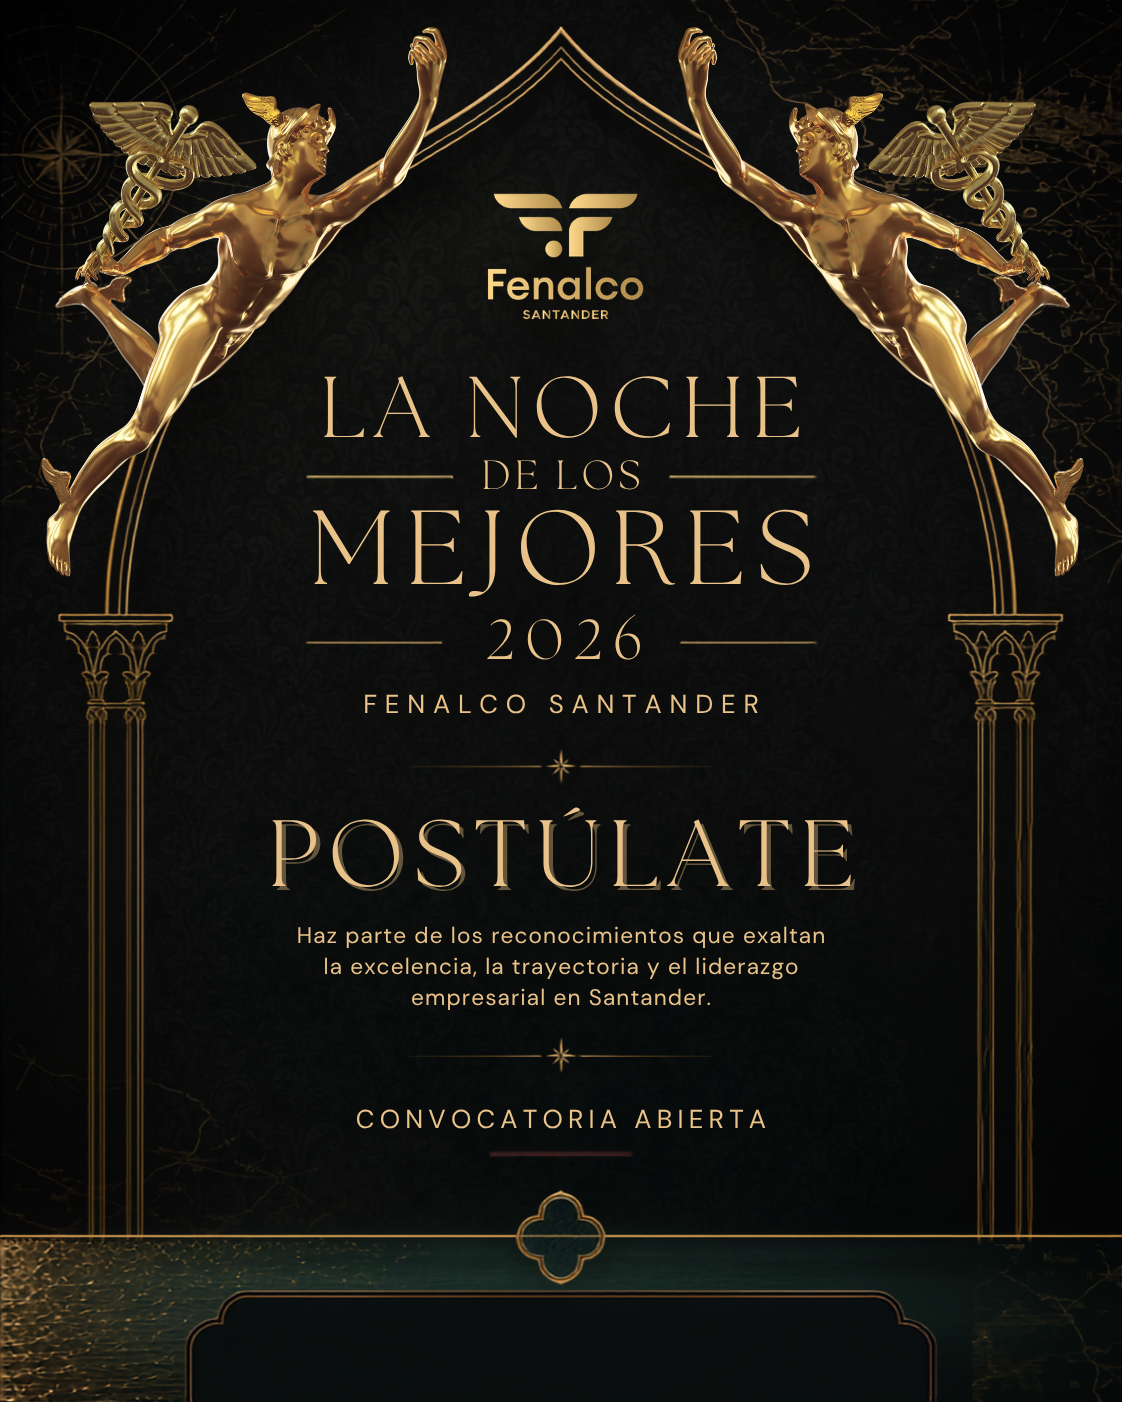
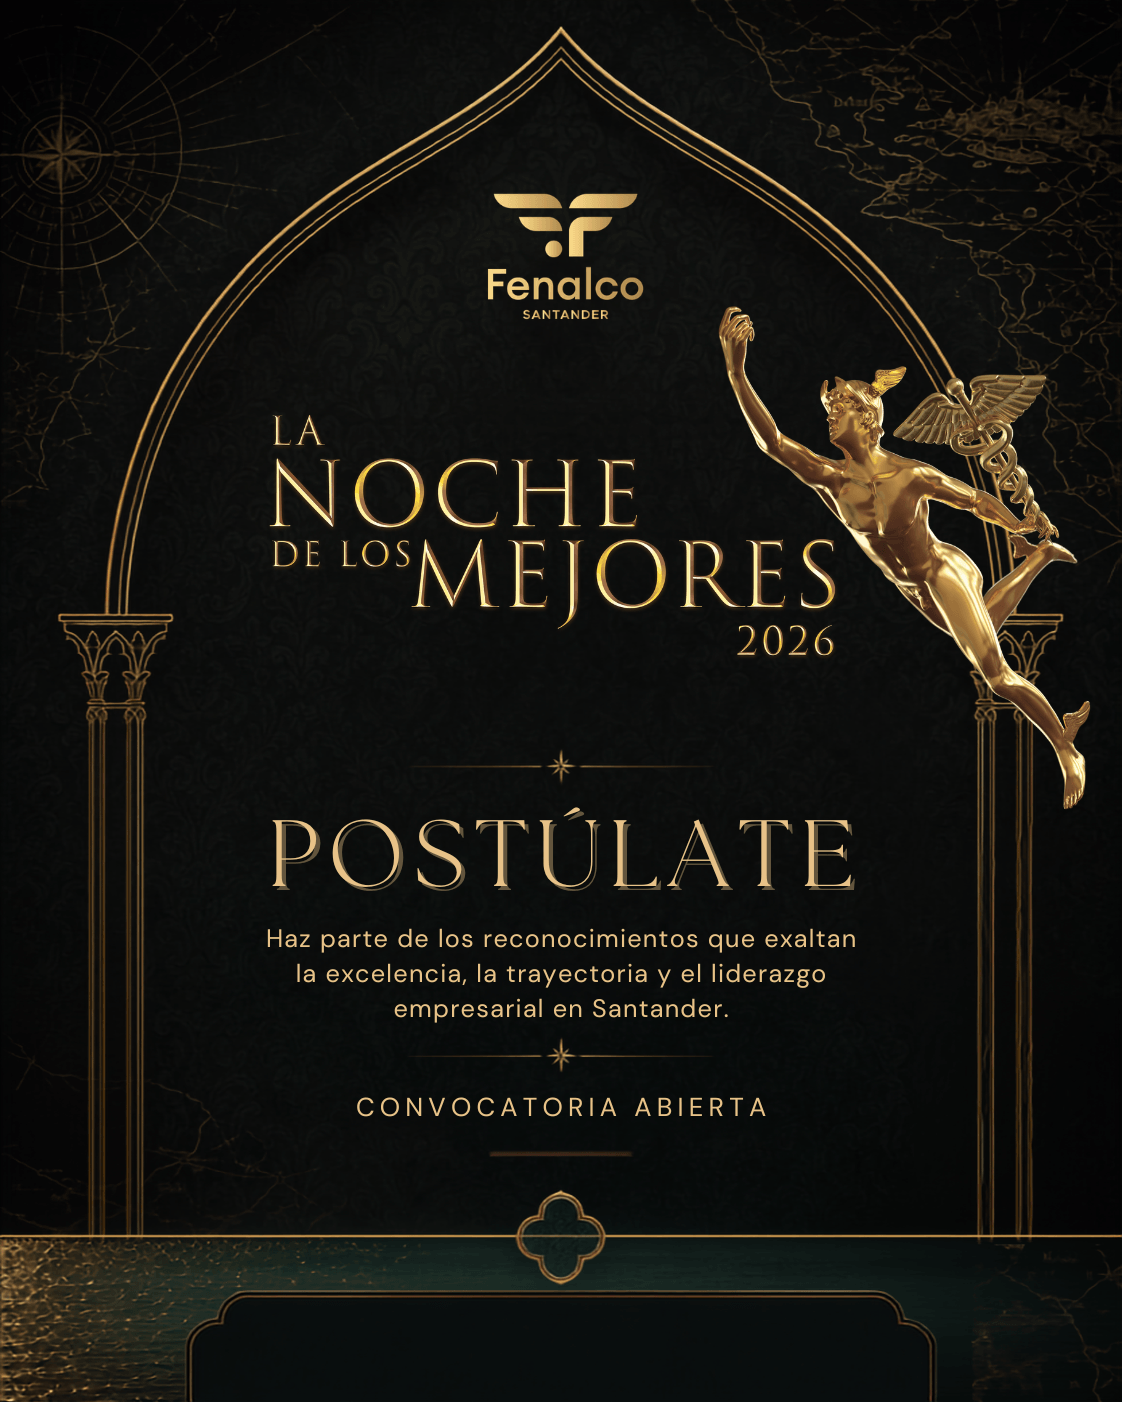
Actualiza imagen hero NDLM 2026 y simplifica textos
- Reemplaza ndlm-hero-mercurio-negro.png por la nueva pieza de Postulaciones (mismas dimensiones 1122x1402, PNG optimizado con paleta: 1.64MB -> 655KB)
- Acorta la dirección en la sección Sede (quita repetición de barrio/ciudad/departamento/país)
- Cambia el título "Revive NDLM 2025" por "Revive la Noche de los Mejores 2025"

diff --git a/apps/noche-de-los-mejores-2026/components/blocks/ReviveNDLM2025.tsx b/apps/noche-de-los-mejores-2026/components/blocks/ReviveNDLM2025.tsx
@@ -12,7 +12,7 @@ export function ReviveNDLM2025() {
   return (
     <Section id="revive-ndlm-2025" bg="light-alt">
       <Reveal className="mx-auto max-w-2xl text-center">
-        <SectionTitle>Revive NDLM 2025</SectionTitle>
+        <SectionTitle>Revive la Noche de los Mejores 2025</SectionTitle>
         <Rule className="mx-auto my-6" />
         <p className="text-ink/70">
           Revive los mejores momentos de NDLM 2025: una gala donde celebramos la pujanza
@@ -30,7 +30,7 @@ export function ReviveNDLM2025() {
         <div className="relative aspect-video w-full overflow-hidden border border-accent/25">
           <iframe
             src="https://www.youtube.com/embed/uBbtgaiuIOE"
-            title="Revive NDLM 2025"
+            title="Revive la Noche de los Mejores 2025"
             className="absolute inset-0 h-full w-full"
             allow="accelerometer; autoplay; clipboard-write; encrypted-media; gyroscope; picture-in-picture; web-share"
             referrerPolicy="strict-origin-when-cross-origin"

diff --git a/apps/noche-de-los-mejores-2026/content/event.config.ts b/apps/noche-de-los-mejores-2026/content/event.config.ts
@@ -70,7 +70,7 @@ export const config: EventConfig = {
 
   sede: {
     nombre: 'Centro de Convenciones Neomundo — Gran Salón',
-    direccion: 'Calle 89 Transversal Oriental Metropolitana #69, barrio El Tejar, Bucaramanga, Santander, Colombia',
+    direccion: 'Calle 89 Transversal Oriental Metropolitana #69',
     ciudad: 'Bucaramanga',
     notas: 'Código de vestuario: blanco. Información sujeta a cambios.',
   },
